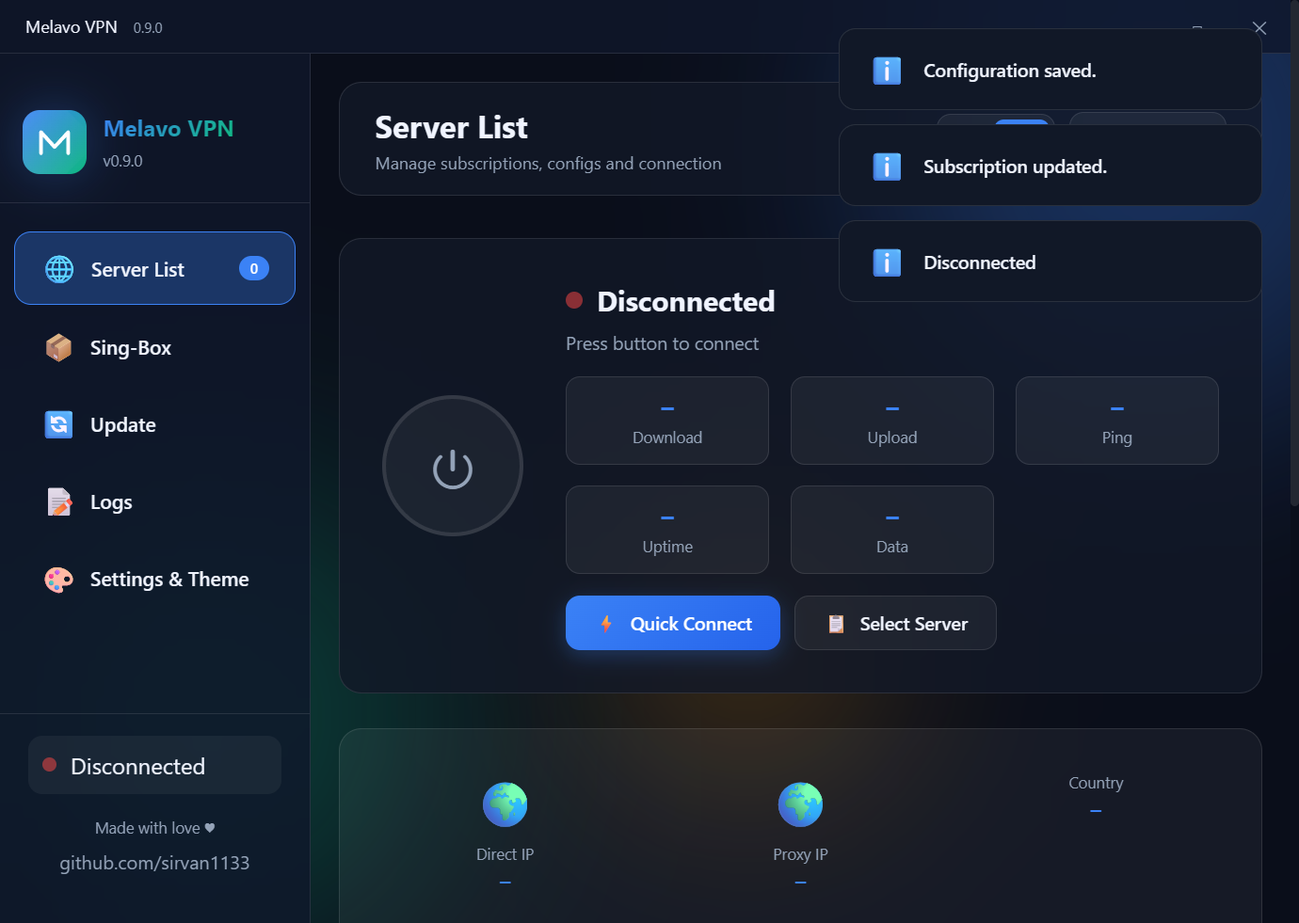
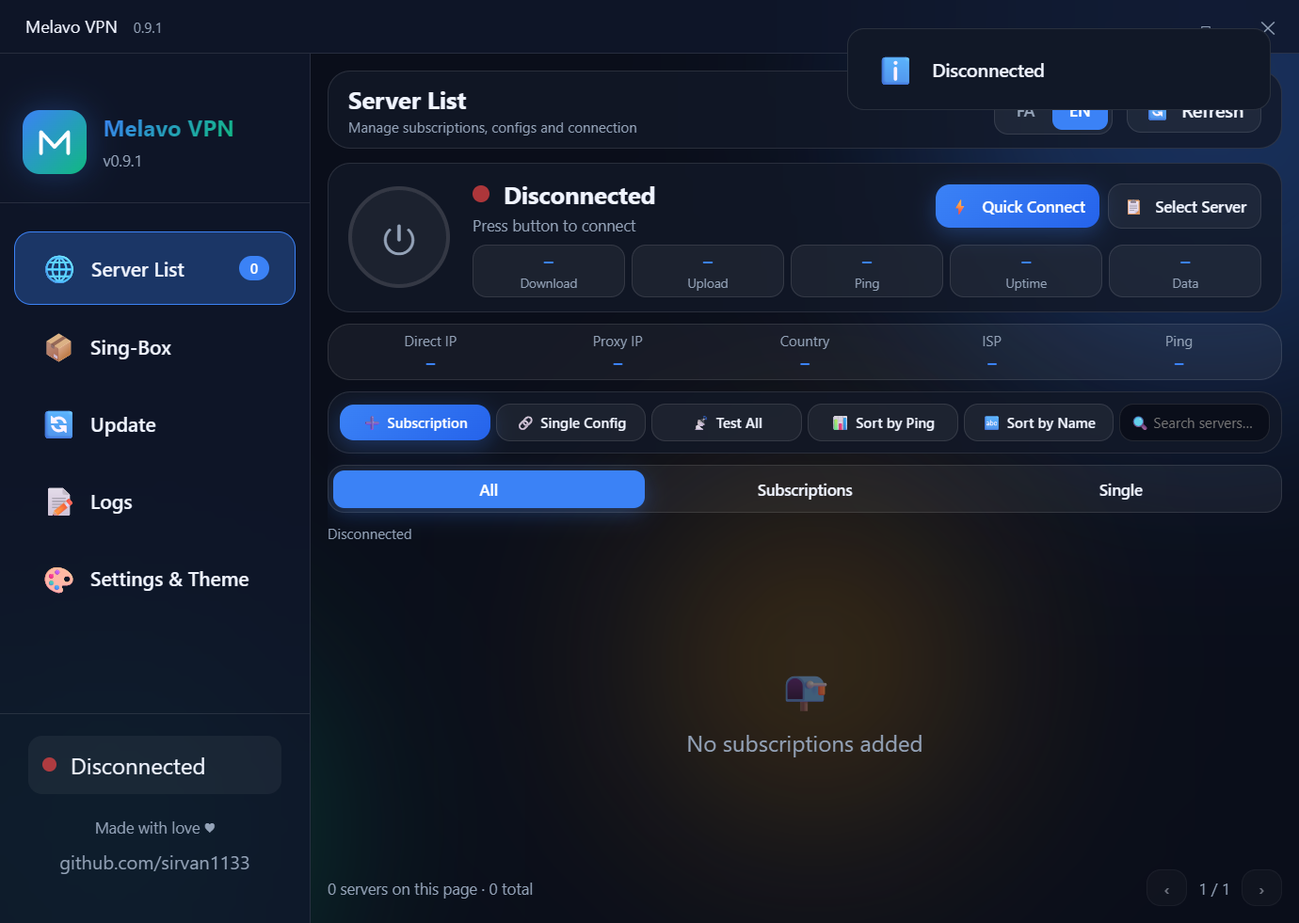
Fit server dashboard to window with adaptive server pagination

diff --git a/Assets/WebShell.js b/Assets/WebShell.js
@@ -11,7 +11,7 @@ const $=id=>document.getElementById(id),t=key=>translations[currentLang][key]||t
 const escapeHTML=value=>String(value??'').replace(/[&<>"']/g,c=>({'&':'&amp;','<':'&lt;','>':'&gt;','"':'&quot;',"'":'&#39;'}[c]));
 function rpc(action,args={}){return new Promise((resolve,reject)=>{if(!window.chrome?.webview){reject(new Error(t('offline')));return;}const id=++requestId;const timer=setTimeout(()=>{pending.delete(id);reject(new Error(t('busy')));},180000);pending.set(id,{resolve,reject,timer});window.chrome.webview.postMessage({id,action,...args});});}
 async function runAction(action,args={}){try{return await rpc(action,args);}catch(e){showToast('⚠',e.message);return null;}}
-function setText(id,value){const el=$(id);if(el&&el.textContent!==String(value??''))el.textContent=value??'';}
+function setText(id,value){const el=$(id);if(el&&el.textContent!==String(value??'')){el.textContent=value??'';el.title=String(value??'');}}
 function captionDrag(event){if(event.button===0&&!event.target.closest('button'))runAction('drag');}
 document.querySelectorAll('.caption-actions button').forEach(button=>{button.addEventListener('pointerdown',e=>e.stopPropagation());button.addEventListener('dblclick',e=>e.stopPropagation());});
 function setLang(lang,btn,persist=true){
@@ -31,7 +31,7 @@ function showPage(page){
  if(!['servers','singbox','update','logs','settings'].includes(page))return;currentPage=page;
  document.querySelectorAll('.page-section').forEach(p=>p.classList.toggle('active',p.id==='page-'+page));
  document.querySelectorAll('.nav-item').forEach((n,i)=>n.classList.toggle('active',['servers','singbox','update','logs','settings'][i]===page));
- $('pageTitle').textContent=t('page_'+page+'_title');$('pageDesc').textContent=t('page_'+page+'_desc');window.scrollTo({top:0,behavior:'instant'});$('contextMenu').classList.remove('show');
+ $('pageTitle').textContent=t('page_'+page+'_title');$('pageDesc').textContent=t('page_'+page+'_desc');window.scrollTo({top:0,behavior:'instant'});if(page==='servers')requestAnimationFrame(renderServerList);$('contextMenu').classList.remove('show');
 }
 function setTheme(theme,el,persist=true){
  const allowed=['dark-blue','dark-purple','dark-emerald','dark-rose','dark-carbon','dark-neon','dark-matrix','light'];if(!allowed.includes(theme))return;
@@ -59,19 +59,42 @@ function renderNodesList(nodes){
  const filtered=visibleNodes(nodes);if(!filtered.length)return `<div class="empty-state" style="padding:20px"><p>${escapeHTML(t('no_results'))}</p></div>`;
  return filtered.map(node=>{const pingClass=node.ping==null?'ping-none':node.ping<80?'ping-good':node.ping<150?'ping-medium':'ping-bad';const pingText=node.failed?t('no_reply'):node.ping==null?'—':node.ping+' ms';return `<div class="node-item ${selectedNodeId===node.id?'selected':''}" data-node-id="${escapeHTML(node.id)}" tabindex="0" role="button" aria-selected="${selectedNodeId===node.id}" onclick="selectNode(this)" onkeydown="nodeKey(event,this)" oncontextmenu="showContextMenu(event,'${escapeHTML(node.id)}')"><span class="node-flag">${escapeHTML(node.flag)}</span><div class="node-info"><div class="node-name">${escapeHTML(node.name)}</div><div class="node-detail"><span>🔹 ${escapeHTML(node.type)}</span><span>🔸 ${escapeHTML(node.proto)}</span></div></div><span class="node-ping ${pingClass}" title="ICMP">${escapeHTML(pingText)}</span></div>`;}).join('');
 }
+let serverPage=0,serverPages=[];
+function changeServerPage(delta){serverPage=Math.max(0,Math.min(serverPages.length-1,serverPage+delta));renderServerList();}
 function renderServerList(){
+ const originalSubs=subscriptions,originalSingles=singleConfigs,total=allNodes().length;
+ const height=Math.max(96,$('serverListContainer').clientHeight-4),header=50,row=42,gap=8;
+ const groups=[];if(currentView!=='single')for(const group of originalSubs)groups.push({source:group,single:false,nodes:visibleNodes(group.nodes)});
+ if(currentView!=='subs'&&originalSingles.length)groups.push({single:true,nodes:visibleNodes(originalSingles)});
+ const pages=[];let entries=[],remaining=height;
+ function finish(){if(entries.length){pages.push(entries);entries=[];remaining=height;}}
+ for(const group of groups){
+  const closed=!group.single&&closedGroups.has(group.source.id);const nodes=closed?[]:group.nodes;
+  if(!nodes.length){const cost=header+gap+(closed?0:30);if(remaining<cost)finish();entries.push({...group,nodes:[]});remaining-=cost;continue;}
+  let index=0;while(index<nodes.length){if(remaining<header+row+gap)finish();const capacity=Math.max(1,Math.floor((remaining-header-gap)/row));const chunk=nodes.slice(index,index+capacity);entries.push({...group,nodes:chunk});remaining-=header+chunk.length*row+gap;index+=chunk.length;if(index<nodes.length)finish();}
+ }
+ finish();serverPages=pages;serverPage=Math.max(0,Math.min(serverPage,pages.length-1));const selected=pages[serverPage]||[];
+ subscriptions=selected.filter(g=>!g.single).map(g=>({...g.source,totalNodes:g.source.nodes.length,nodes:g.nodes}));singleConfigs=selected.filter(g=>g.single).flatMap(g=>g.nodes);
+ try{renderServerPage();}finally{subscriptions=originalSubs;singleConfigs=originalSingles;}
+ setText('totalNodesBadge',total);const shown=selected.reduce((sum,g)=>sum+g.nodes.length,0);setText('serverPageCount',currentLang==='fa'?`${shown} سرور در این صفحه · ${total} سرور در مجموع`:`${shown} servers on this page · ${total} total`);
+ setText('serverPageNumber',`${serverPage+1} / ${Math.max(1,pages.length)}`);$('previousServerPage').disabled=serverPage<=0;$('nextServerPage').disabled=serverPage>=pages.length-1;
+ $('previousServerPage').setAttribute('aria-label',currentLang==='fa'?'صفحه قبلی':'Previous page');$('nextServerPage').setAttribute('aria-label',currentLang==='fa'?'صفحه بعدی':'Next page');
+}
+let serverResizeTimer;new ResizeObserver(()=>{clearTimeout(serverResizeTimer);serverResizeTimer=setTimeout(()=>{if(currentPage==='servers')renderServerList();},50);}).observe($('serverListContainer'));
+function renderServerPage(){
  const container=$('serverListContainer'),scroll=window.scrollY;let html='';
- if(currentView!=='single')for(const sub of subscriptions){const closed=closedGroups.has(sub.id),account=[];if(sub.total)account.push(t('traffic')+': '+sub.used+' / '+sub.total);if(sub.expires)account.push(t('expires')+': '+sub.expires);html+=`<div class="sub-group ${closed?'':'open'}" data-sub-id="${escapeHTML(sub.id)}"><div class="sub-group-header" tabindex="0" role="button" aria-expanded="${!closed}" onclick="toggleSubGroup('${escapeHTML(sub.id)}')" onkeydown="if(event.key==='Enter'||event.key===' '){event.preventDefault();toggleSubGroup('${escapeHTML(sub.id)}')}"><div class="sub-group-icon">🌐</div><div class="sub-group-info"><div class="sub-group-name">${escapeHTML(sub.name)}</div><div class="sub-group-meta" title="${escapeHTML(sub.url)}">${escapeHTML(sub.url)}</div>${account.length?`<div class="group-account">${escapeHTML(account.join(' · '))}</div>`:''}</div><span class="sub-group-nodes">${sub.nodes.length} ${escapeHTML(t('nodes_count'))}</span><div class="sub-group-actions"><button class="icon-btn" data-mutation onclick="event.stopPropagation();refreshSub('${escapeHTML(sub.id)}')" title="${escapeHTML(t('btn_refresh'))}" aria-label="${escapeHTML(t('btn_refresh'))}">🔄</button><button class="icon-btn" data-mutation onclick="event.stopPropagation();editSub('${escapeHTML(sub.id)}')" title="${escapeHTML(t('ctx_edit'))}" aria-label="${escapeHTML(t('ctx_edit'))}">✏</button><button class="icon-btn" data-mutation onclick="event.stopPropagation();deleteSub('${escapeHTML(sub.id)}')" title="${escapeHTML(t('ctx_delete'))}" aria-label="${escapeHTML(t('ctx_delete'))}">🗑</button><span class="sub-group-toggle">▶</span></div></div><div class="sub-group-nodes-list"><div class="node-list-inner">${renderNodesList(sub.nodes)}</div></div></div>`;}
+ if(currentView!=='single')for(const sub of subscriptions){const closed=closedGroups.has(sub.id),account=[];if(sub.total)account.push(t('traffic')+': '+sub.used+' / '+sub.total);if(sub.expires)account.push(t('expires')+': '+sub.expires);html+=`<div class="sub-group ${closed?'':'open'}" data-sub-id="${escapeHTML(sub.id)}"><div class="sub-group-header" tabindex="0" role="button" aria-expanded="${!closed}" onclick="toggleSubGroup('${escapeHTML(sub.id)}')" onkeydown="if(event.key==='Enter'||event.key===' '){event.preventDefault();toggleSubGroup('${escapeHTML(sub.id)}')}"><div class="sub-group-icon">🌐</div><div class="sub-group-info"><div class="sub-group-name">${escapeHTML(sub.name)}</div><div class="sub-group-meta" title="${escapeHTML(sub.url)}">${escapeHTML(sub.url)}</div>${account.length?`<div class="group-account">${escapeHTML(account.join(' · '))}</div>`:''}</div><span class="sub-group-nodes">${sub.totalNodes??sub.nodes.length} ${escapeHTML(t('nodes_count'))}</span><div class="sub-group-actions"><button class="icon-btn" data-mutation onclick="event.stopPropagation();refreshSub('${escapeHTML(sub.id)}')" title="${escapeHTML(t('btn_refresh'))}" aria-label="${escapeHTML(t('btn_refresh'))}">🔄</button><button class="icon-btn" data-mutation onclick="event.stopPropagation();editSub('${escapeHTML(sub.id)}')" title="${escapeHTML(t('ctx_edit'))}" aria-label="${escapeHTML(t('ctx_edit'))}">✏</button><button class="icon-btn" data-mutation onclick="event.stopPropagation();deleteSub('${escapeHTML(sub.id)}')" title="${escapeHTML(t('ctx_delete'))}" aria-label="${escapeHTML(t('ctx_delete'))}">🗑</button><span class="sub-group-toggle">▶</span></div></div><div class="sub-group-nodes-list"><div class="node-list-inner">${renderNodesList(sub.nodes)}</div></div></div>`;}
  if(currentView!=='subs'&&singleConfigs.length)html+=`<div class="sub-group open"><div class="sub-group-header"><div class="sub-group-icon">🔗</div><div class="sub-group-info"><div class="sub-group-name">${escapeHTML(t('tab_single'))}</div><div class="sub-group-meta">${escapeHTML(t('manual_configs'))}</div></div><span class="sub-group-nodes">${singleConfigs.length} ${escapeHTML(t('nodes_count'))}</span></div><div class="sub-group-nodes-list"><div class="node-list-inner">${renderNodesList(singleConfigs)}</div></div></div>`;
  if(!html)html=`<div class="empty-state"><div class="empty-state-icon">${currentView==='single'?'🔗':'📭'}</div><p>${escapeHTML(t(currentView==='single'?'empty_single':'empty_subs'))}</p></div>`;
  container.innerHTML=html;setText('totalNodesBadge',allNodes().length);updateDisabled();if(window.scrollY!==scroll)window.scrollTo(0,scroll);
 }
-function toggleSubGroup(id){const group=Array.from(document.querySelectorAll('.sub-group[data-sub-id]')).find(g=>g.dataset.subId===id);if(!group)return;const open=group.classList.toggle('open');if(open)closedGroups.delete(id);else closedGroups.add(id);group.querySelector('.sub-group-header').setAttribute('aria-expanded',String(open));}
+function toggleSubGroup(id){const group=Array.from(document.querySelectorAll('.sub-group[data-sub-id]')).find(g=>g.dataset.subId===id);if(!group)return;const opening=closedGroups.has(id);if(opening){closedGroups.delete(id);renderServerList();const updated=Array.from(document.querySelectorAll('.sub-group[data-sub-id]')).find(g=>g.dataset.subId===id);if(updated){updated.classList.remove('open');void updated.offsetHeight;requestAnimationFrame(()=>updated.classList.add('open'));}}else{closedGroups.add(id);group.classList.remove('open');group.querySelector('.sub-group-header').setAttribute('aria-expanded','false');setTimeout(renderServerList,320);}}
+
 function selectNode(el){if(hostState?.busy)return;selectedNodeId=el.dataset.nodeId;document.querySelectorAll('.node-item').forEach(n=>{n.classList.toggle('selected',n.dataset.nodeId===selectedNodeId);n.setAttribute('aria-selected',String(n.dataset.nodeId===selectedNodeId));});runAction('select',{nodeId:selectedNodeId});}
 function nodeKey(event,el){if(event.key==='Enter'||event.key===' '){event.preventDefault();selectNode(el);}if(event.key==='ContextMenu'||(event.shiftKey&&event.key==='F10')){event.preventDefault();const r=el.getBoundingClientRect();showContextMenu({preventDefault(){},stopPropagation(){},clientX:r.left+40,clientY:r.top+20},el.dataset.nodeId);}}
-function filterView(view,el){currentView=view;document.querySelectorAll('.tab').forEach((tab,i)=>tab.classList.toggle('active',['all','subs','single'][i]===view));renderServerList();}
-function filterNodes(){renderServerList();}
-function sortNodes(by){sortBy=by;renderServerList();showToast('📊',t('toast_sorted'));}
+function filterView(view,el){serverPage=0;currentView=view;document.querySelectorAll('.tab').forEach((tab,i)=>tab.classList.toggle('active',['all','subs','single'][i]===view));renderServerList();}
+function filterNodes(){serverPage=0;renderServerList();}
+function sortNodes(by){serverPage=0;sortBy=by;renderServerList();showToast('📊',t('toast_sorted'));}
 function showContextMenu(event,nodeId){event.preventDefault();event.stopPropagation();if(!findNode(nodeId))return;selectedNodeId=nodeId;contextTarget=nodeId;document.querySelectorAll('.node-item').forEach(n=>n.classList.toggle('selected',n.dataset.nodeId===nodeId));runAction('select',{nodeId});const menu=$('contextMenu');menu.classList.add('show');menu.style.left=Math.max(8,Math.min(event.clientX,window.innerWidth-menu.offsetWidth-10))+'px';menu.style.top=Math.max(44,Math.min(event.clientY,window.innerHeight-menu.offsetHeight-10))+'px';}
 async function contextAction(action){$('contextMenu').classList.remove('show');if(!contextTarget)return;const node=findNode(contextTarget);if(!node)return;
  if(action==='connect')await runAction('connect',{nodeId:node.id});else if(action==='copy'){const result=await runAction('copy',{nodeId:node.id});if(result)showToast('📋',t('toast_copied'));}else if(action==='share')await showShare(node.id);else if(action==='edit'){const data=await runAction('edit-data',{nodeId:node.id});if(data){editingNodeId=node.id;$('editConfigName').value=data.name;$('editConfigLink').value=data.text;openModal('editConfigModal');}}else if(action==='ping')await runAction('ping',{nodeId:node.id});else if(action==='ip'){if(hostState?.activeId===node.id&&hostState.connected){await runAction('ip');showPage('servers');$('ipPanel').scrollIntoView({behavior:'smooth'});}else showToast('ℹ',t('unsupported_ip'));}else if(action==='delete')confirmAction('delete-node',{nodeId:node.id});

diff --git a/Assets/WebShell.html b/Assets/WebShell.html
@@ -1598,6 +1598,26 @@
 @media(max-width:1050px) and (min-width:769px){.sidebar{width:220px}.main-content{margin-right:220px;padding:58px 20px 20px}[dir=ltr] .main-content{margin-right:0;margin-left:220px}.sidebar-header{padding:20px 16px}.nav-menu{padding:0 10px}.ip-panel{grid-template-columns:repeat(3,minmax(0,1fr))}}
 @media(max-width:768px){.main-content{padding-top:53px}[dir=ltr] .main-content{margin-right:0}.sidebar-header{padding:12px;justify-content:center}.logo{flex:none}.sidebar-footer{padding:10px}.creator{display:none}.nav-item{justify-content:center;padding:12px 6px}.ip-panel{grid-template-columns:repeat(2,minmax(0,1fr))}.sub-group-header{padding:12px;flex-wrap:wrap}.sub-group-info{flex:1;min-width:110px}.sub-group-actions{margin-inline-start:auto}.top-bar{padding:15px}.connection-panel{padding:20px}.bg-animation .orb{filter:blur(60px)}}
 @media(prefers-reduced-motion:reduce){*,*::before,*::after{animation:none!important;transition:none!important;scroll-behavior:auto!important}}
+
+/* Fixed dashboard: long server lists use pages, not a scroll surface. */
+html,body{height:100%;overflow:hidden}.app-container{height:100vh;min-height:0}.main-content{height:100vh;min-height:0;display:flex;flex-direction:column;padding:50px 18px 12px;overflow:hidden}.top-bar{flex:none;padding:10px 16px;margin-bottom:10px;min-height:54px;gap:8px}.top-bar-title h1{font-size:18px}.top-bar-title p{font-size:11px}.top-bar .btn{padding:7px 12px}.page-section.active{flex:1;min-height:0;overflow:auto}.page-section#page-servers.active{display:flex;flex-direction:column;overflow:hidden;gap:8px}
+#page-servers .connection-panel{flex:none;padding:14px 18px;margin:0}#page-servers .connection-content{flex-wrap:nowrap;flex-direction:row;text-align:start;gap:16px}.power-button{width:72px;height:72px}.power-icon{font-size:28px}.connection-info-panel{min-width:0;display:grid;grid-template-columns:minmax(0,1fr) auto;gap:3px 12px}.connection-status-main{font-size:17px;margin:0;grid-column:1}.connection-subtitle{grid-column:1;margin:0;font-size:11px;white-space:nowrap;overflow:hidden;text-overflow:ellipsis}.connection-actions{grid-column:2;grid-row:1 / span 2;margin:0;align-items:center;gap:6px}.connection-actions .btn{padding:8px 10px;font-size:11px}.connection-stats{grid-column:1 / -1;grid-template-columns:repeat(5,minmax(0,1fr));gap:6px;margin-top:6px}.stat-item{padding:6px 4px}.stat-item .stat-value{font-size:13px;white-space:nowrap}.stat-item .stat-label{font-size:10px;margin-top:2px}
+#page-servers .ip-panel{flex:none;margin:0;padding:7px 10px;gap:8px;grid-template-columns:repeat(5,minmax(0,1fr))}.ip-item{padding:0}.ip-item .flag{display:none}.ip-item .label{font-size:10px;margin:0 0 3px}.ip-item .value{font-size:11px;overflow:hidden;text-overflow:ellipsis;white-space:nowrap}
+.server-actions{flex:none;margin:0!important;padding:8px!important}.server-actions>div{display:grid!important;grid-template-columns:repeat(3,minmax(0,1fr));gap:6px!important}.server-actions .btn{justify-content:center;min-width:0;padding:7px 5px;font-size:11px;white-space:nowrap}.server-actions>div>div{margin:0!important;min-width:0}.server-actions input{width:100%!important;padding:7px 10px!important;min-width:0;font-size:11px}
+#page-servers .tabs{flex:none;margin:0;padding:3px;gap:3px}.tab{padding:6px 10px;font-size:11px;min-width:0}.status-bar{margin:0;min-height:16px;flex:none;font-size:10px;overflow:hidden;white-space:nowrap;text-overflow:ellipsis}#serverListContainer{flex:1;min-height:0;overflow:hidden}.server-pager{flex:none;display:flex;align-items:center;justify-content:space-between;gap:10px;height:30px;color:var(--text-secondary);font-size:11px}.server-pager .btn{padding:5px 12px;font-size:11px}.server-pager .pager-controls{display:flex;align-items:center;gap:8px;direction:ltr}
+#serverListContainer .sub-group{margin-bottom:6px}#serverListContainer .sub-group-header{padding:8px 12px;gap:8px;flex-wrap:nowrap}#serverListContainer .sub-group-icon{width:28px;height:28px;font-size:15px;flex:none}#serverListContainer .sub-group-name{font-size:12px;margin-bottom:2px;white-space:nowrap;text-overflow:ellipsis;overflow:hidden}#serverListContainer .sub-group-meta{font-size:10px}#serverListContainer .group-account{display:none}#serverListContainer .sub-group-info{min-width:0}#serverListContainer .sub-group-nodes{font-size:10px;padding:3px 6px;margin:0}#serverListContainer .sub-group-actions{gap:3px}#serverListContainer .icon-btn{width:26px;height:26px;font-size:13px;padding:0}#serverListContainer .node-item{height:42px;padding:5px 12px;padding-inline-end:38px;gap:10px;box-sizing:border-box}#serverListContainer .node-flag{font-size:20px}#serverListContainer .node-name{font-size:12px;white-space:nowrap;overflow:hidden;text-overflow:ellipsis}#serverListContainer .node-detail{font-size:10px;margin-top:1px}#serverListContainer .node-ping{font-size:10px;padding:4px 6px}.empty-state{padding:16px;display:flex;height:100%;flex-direction:column;align-items:center;justify-content:center}.empty-state-icon{font-size:32px;margin-bottom:8px}
+@media(min-width:1300px){.server-actions>div{grid-template-columns:repeat(6,minmax(0,1fr))}}
+@media(max-width:1050px){.main-content{padding:50px 12px 10px}}
+@media(max-width:768px){.main-content{margin-right:70px;padding:48px 10px 8px}[dir=ltr] .main-content{margin-left:70px;margin-right:0}.top-bar{padding:8px 12px;flex-wrap:nowrap}.top-bar-title h1{font-size:16px}.top-bar-title p{max-width:280px;overflow:hidden;text-overflow:ellipsis;white-space:nowrap}.top-bar-actions{flex-wrap:nowrap;gap:6px}.lang-btn{padding:4px 7px}.top-bar .btn{padding:6px 8px;font-size:10px}.connection-actions{gap:4px}.connection-actions .btn{font-size:10px;padding:6px 7px}#page-servers .connection-panel{padding:10px 12px}.power-button{width:60px;height:60px}.connection-info-panel{gap:2px 6px}}
+@media(max-height:600px){#page-servers.active{gap:5px}.main-content{padding-bottom:6px}.top-bar{margin-bottom:6px;min-height:42px;padding-top:6px;padding-bottom:6px}.top-bar-title p{display:none}.connection-status-main{font-size:15px}.connection-stats{margin-top:3px}.stat-item{padding:4px 2px}.stat-item .stat-label{font-size:9px}.stat-item .stat-value{font-size:12px}.server-actions{padding:5px!important}.server-actions .btn{padding:5px 4px;font-size:10px}.server-actions input{padding:5px 7px!important}.server-pager{height:26px}.server-pager .btn{padding:4px 8px}#page-servers .connection-panel{padding:8px 12px}}
+
+@media(max-height:600px){.main-content{padding-top:43px;padding-bottom:4px}#page-servers.page-section.active{gap:3px}.top-bar{margin-bottom:4px;min-height:34px;padding:4px 10px}.lang-toggle{padding:2px}.lang-btn{font-size:10px;padding:3px 6px}.top-bar-title h1{font-size:15px}#page-servers .connection-panel{padding:6px 10px}.connection-subtitle{font-size:10px}.connection-stats{gap:4px;margin-top:2px}.stat-item{padding:3px 2px}.stat-item .stat-value{font-size:11px}.stat-item .stat-label{font-size:9px;margin-top:0}#page-servers .ip-panel{padding:4px 8px}.ip-item .label{font-size:9px;margin-bottom:2px}.ip-item .value{font-size:10px}.server-actions .btn{font-size:10px;padding:4px 3px}.server-actions input{font-size:10px;padding:4px 6px!important}.server-actions>div{gap:4px!important}#page-servers .tabs{padding:2px}.tab{padding:4px 8px;font-size:10px}.status-bar{font-size:9px;min-height:12px}.server-pager{height:24px;font-size:10px}}
+
+@media(min-width:850px){.server-actions>div{grid-template-columns:repeat(6,minmax(0,1fr));gap:4px!important}.server-actions .btn{font-size:10px;padding:6px 3px;gap:4px}.server-actions input{font-size:10px;padding:6px 7px!important}}
+@media(min-height:601px){#page-servers .connection-panel{padding:10px 14px}.connection-stats{margin-top:4px;gap:5px}.stat-item{padding:4px 3px}.stat-item .stat-value{font-size:12px}.stat-item .stat-label{font-size:9px;margin-top:1px}#page-servers .ip-panel{padding:5px 10px}.top-bar{padding:8px 14px}.top-bar-title h1{font-size:17px}.top-bar-title p{font-size:10px;margin-top:2px}}
+#serverListContainer .sub-group .empty-state{height:auto;min-height:30px;padding:8px!important}#serverListContainer .sub-group .empty-state p{font-size:11px}
+
+@media(max-height:600px){.sidebar{padding:12px 0}.sidebar-header{padding:12px 16px;margin-bottom:8px}.nav-menu{overflow:hidden}.nav-item{padding:8px 12px;margin-bottom:3px}.nav-text{font-size:12px}.nav-icon{font-size:18px;width:22px}.sidebar-footer{padding:8px 12px}.connection-mini{padding:7px;gap:6px}.creator{margin-top:8px;font-size:10px}.creator-link{margin-top:4px}.logo-text h2{font-size:14px}.sidebar-header .logo{width:38px;height:38px}@media(max-width:768px){.sidebar-header{padding:12px 8px}.nav-item{padding:8px 4px}.sidebar-footer{padding:8px}}}
     </style>
 </head>
 <body>
@@ -1769,7 +1789,7 @@
                 </div>
 
                 <!-- Action Bar -->
-                <div class="card" style="padding: 15px 20px;">
+                <div class="card server-actions" style="padding: 15px 20px;">
                     <div style="display: flex; gap: 10px; flex-wrap: wrap; align-items: center;">
                         <button class="btn btn-primary" onclick="openModal('addSubModal')">➕ <span data-i18n="btn_add_sub">سابسکریپشن</span></button>
                         <button class="btn btn-secondary" onclick="openModal('addConfigModal')">🔗 <span data-i18n="btn_add_config">کانفیگ تکی</span></button>
@@ -1791,7 +1811,7 @@
 
                 <div class="status-bar" id="hostStatus" role="status"></div>
                 <!-- Server List Container -->
-                <div id="serverListContainer"></div>
+                <div id="serverListContainer"></div><div class="server-pager" id="serverPager"><span id="serverPageCount"></span><div class="pager-controls"><button class="btn btn-secondary" id="previousServerPage" onclick="changeServerPage(-1)">‹</button><span id="serverPageNumber"></span><button class="btn btn-secondary" id="nextServerPage" onclick="changeServerPage(1)">›</button></div></div>
             </div>
 
 <div class="page-section" id="page-singbox"><div class="card"><div class="card-header"><div class="card-title">📦 <span data-i18n="singbox_title"></span></div></div>

diff --git a/Client.WebChecks.cs b/Client.WebChecks.cs
@@ -2,7 +2,7 @@ using System.Text.Json;
 using Microsoft.Web.WebView2.Core;
 namespace MelavoClient;
 sealed partial class Client {
- public static int WebChecks(){
+ public static int WebChecks(bool layoutOnly=false){
   var folder=Path.Combine(Path.GetTempPath(),"Melavo-WebChecks-"+Guid.NewGuid().ToString("N"));
   Directory.CreateDirectory(folder);using var client=new Client(true,true){ShowInTaskbar=false,Opacity=0,webReviewDirectory=folder};
   var report=new List<string>();client.Show();var task=Run();while(!task.IsCompleted){Application.DoEvents();Thread.Sleep(10);}try{task.GetAwaiter().GetResult();File.WriteAllLines(Path.Combine(AppContext.BaseDirectory,"web-checks.txt"),report);return 0;}catch(Exception e){report.Add("FAIL: "+e);File.WriteAllLines(Path.Combine(AppContext.BaseDirectory,"web-checks.txt"),report);return 1;}finally{client.webOperation=false;client.Close();}
@@ -10,14 +10,24 @@ sealed partial class Client {
    async Task Until(Func<bool> condition,int timeout=15000){var clock=System.Diagnostics.Stopwatch.StartNew();while(!condition()){if(clock.ElapsedMilliseconds>timeout)throw new Exception("Web UI timeout. "+client.status.Text);await Task.Delay(30);}}
    try{await Until(()=>client.webReady,25000);}catch{if(client.webShell?.CoreWebView2!=null){var diagnostic=client.webShell.CoreWebView2.ExecuteScriptAsync("JSON.stringify({errors:window.__melavoErrors,body:document.body?.innerText?.slice(-1200),ready:typeof ready})");while(!diagnostic.IsCompleted){Application.DoEvents();Thread.Sleep(10);}report.Add("Frontend: "+diagnostic.GetAwaiter().GetResult());}throw;}var core=client.webShell!.CoreWebView2;
    async Task<string> Script(string code)=>await core.ExecuteScriptAsync(code);
-   async Task Assert(string code,string name){var value=await Script(code);if(value!="true")throw new Exception(name+": "+value);report.Add("PASS: "+name);}
+   async Task Assert(string code,string name){var value=await Script(code);if(value!="true"){report.Add(await Script("JSON.stringify({viewport:[innerWidth,innerHeight],body:[document.documentElement.scrollWidth,document.documentElement.scrollHeight],parts:Array.from(document.querySelectorAll('.top-bar,#page-servers>*')).map(e=>({id:e.id,cls:e.className,height:e.clientHeight,scroll:e.scrollHeight,top:e.getBoundingClientRect().top,bottom:e.getBoundingClientRect().bottom}))})"));throw new Exception(name+": "+value);}report.Add("PASS: "+name);}
    async Task Capture(string name){await Task.Delay(550);using var output=File.Create(Path.Combine(AppContext.BaseDirectory,name+".png"));await core.CapturePreviewAsync(CoreWebView2CapturePreviewImageFormat.Png,output);}
    async Task<object?> Command(object message){using var doc=JsonDocument.Parse(JsonSerializer.Serialize(message));return await client.HandleWebCommand(doc.RootElement);}
+   if(layoutOnly){
+    var fixture=new SubscriptionGroup{Name="Pagination review",Url="https://example.invalid/review"};for(int i=0;i<100;i++){var item=Parse("vless://11111111-1111-1111-1111-111111111111@127.0.0.1:443?security=none&type=tcp#Offline")[0];item["remarks"]=$"Server {i+1:D3}";fixture.Profiles.Add(item);}client.CommitGroups(new(){fixture},fixture.Id);
+    foreach(var size in new[]{new Size(1380,980),new Size(1240,780),new Size(1000,700)})foreach(var lang in new[]{"en","fa"}){
+     client.Size=size;client.preferences.Language=lang;client.ApplyLanguage();client.PushWebState();await Script("setLang("+JsonSerializer.Serialize(lang)+",null,false);showPage('servers');filterView('all')");await Task.Delay(180);await Capture($"review-layout-{size.Width}-{lang}");
+     await Assert("document.documentElement.scrollHeight<=innerHeight+1 && document.querySelector('#serverListContainer').scrollHeight<=document.querySelector('#serverListContainer').clientHeight+1","Dashboard and server list fit without scroll: "+size+" / "+lang);
+     var count=int.Parse(await Script("serverPages.length"));var ids=new HashSet<string>();for(int page=0;page<count;page++){await Script("serverPage="+page+";renderServerList()");var shown=JsonSerializer.Deserialize<string[]>(await Script("Array.from(document.querySelectorAll('.node-item')).map(e=>e.dataset.nodeId)"))!;foreach(var id in shown)ids.Add(id);await Assert("Array.from(document.querySelectorAll('.node-item')).every(e=>e.getBoundingClientRect().bottom<=document.querySelector('#serverListContainer').getBoundingClientRect().bottom+1)","Visible rows fit page "+page);}
+     if(ids.Count!=100)throw new Exception("Pagination lost profiles: "+ids.Count);report.Add("PASS: all 100 profiles reachable through pages");
+    }
+    client.Size=new(1380,980);client.CommitGroups(new(),null);client.preferences.Language="en";client.ApplyLanguage();client.status.Text="Disconnected";client.PushWebState();await Script("setLang('en',null,false);setTheme('dark-blue',null,false);showPage('servers')");await Capture("review-web-customer");return;
+   }
    client.CommitGroups(new(),null);client.PushWebState();await Task.Delay(180);
    await Assert("allNodes().length===0 && document.querySelectorAll('.node-item').length===0","Customer starts without bundled subscriptions or configurations");
    await Capture("review-web-customer");
    client.LoadPreview();client.PushWebState();await Task.Delay(200);
-   await Assert("document.querySelectorAll('.sub-group[data-sub-id]').length===1 && document.querySelectorAll('.node-item').length===3","Actual host profiles populate the accordion");
+   await Assert("document.querySelectorAll('.sub-group[data-sub-id]').length===1 && document.querySelectorAll('.node-item').length>0 && allNodes().length===3","Actual host profiles populate the accordion");
    var groupId=client.subscriptions.First(IsSubscription).Id;
    await Script("toggleSubGroup("+JsonSerializer.Serialize(groupId)+")");await Task.Delay(380);
    await Assert("!document.querySelector('.sub-group').classList.contains('open') && getComputedStyle(document.querySelector('.sub-group-nodes-list')).gridTemplateRows==='0px'","Accordion collapses to zero height with its CSS transition");
@@ -53,12 +63,12 @@ sealed partial class Client {
    await Script("document.querySelector('#contextMenu').classList.remove('show')");
    await Command(new{action="add-config",text="vless://11111111-1111-1111-1111-111111111111@127.0.0.1:443?security=none&type=tcp#Offline"});
    var single=client.SingleConfigGroup!;var singleId=WebId(single,0);await Command(new{action="select",nodeId=singleId});await Command(new{action="edit-node",nodeId=singleId,name="<img src=x onerror=alert(1)>",text=ShareSnapshot(single.Profiles[0])});client.PushWebState();await Task.Delay(180);
-   await Assert("!document.querySelector('#serverListContainer img') && document.querySelector('#serverListContainer').textContent.includes('<img src=x onerror=alert(1)>')","Profile names are rendered as text, never executable markup");
+   await Script("filterView('single')");await Assert("!document.querySelector('#serverListContainer img') && document.querySelector('#serverListContainer').textContent.includes('<img src=x onerror=alert(1)>')","Profile names are rendered as text, never executable markup");
    await Command(new{action="delete-node",nodeId=singleId});if(client.SingleConfigGroup!=null)throw new Exception("Single config delete failed.");report.Add("PASS: import, edit and delete use native configuration storage logic");
    await Command(new{action="edit-sub",groupId=first.Id,name="Design review",url=first.Url,autoUpdate=false,interval=24});var edited=client.subscriptions.First(g=>g.Id==first.Id);if(edited.AutoUpdate||edited.AutoUpdateHours!=24)throw new Exception("Subscription edit preferences not saved.");report.Add("PASS: edit subscription stores update toggle and interval");
    await Command(new{action="preferences",theme="dark-purple",appearance=new Dictionary<string,string>{{"accent","#8b5cf6"},{"bg","#0f0517"},{"blur","30"},{"opacity","70"},{"radius","20"},{"border","1"}},tray=false,autoUpdate=false,tun=false});
    var roundtrip=JsonSerializer.Deserialize<UiPreferences>(JsonSerializer.Serialize(client.preferences))!;if(roundtrip.WebTheme!="dark-purple"||roundtrip.WebAppearance["blur"]!="30"||roundtrip.TunMode)throw new Exception("Preferences roundtrip failed.");report.Add("PASS: language, theme, custom material and real switches persist in portable preferences");
-   client.Size=new(1000,700);await Task.Delay(180);await Assert("document.documentElement.scrollWidth<=innerWidth+1","Responsive layout fits minimum viewport");await Capture("review-web-minimum");
+   client.Size=new(1000,700);await Script("filterView('all')");await Task.Delay(550);await Assert("document.documentElement.scrollWidth<=innerWidth+1","Responsive layout fits minimum viewport");await Assert("document.documentElement.scrollHeight<=innerHeight+1 && document.querySelector('#serverListContainer').scrollHeight<=document.querySelector('#serverListContainer').clientHeight+1","Dashboard and server list have no vertical overflow");await Capture("review-web-minimum");
    await core.CallDevToolsProtocolMethodAsync("Emulation.setEmulatedMedia","{\"features\":[{\"name\":\"prefers-reduced-motion\",\"value\":\"reduce\"}]}");await Assert("getComputedStyle(document.querySelector('.orb')).animationName==='none'","Reduced-motion preference disables continuous animations");
    client.Size=new(1380,980);client.CommitGroups(new(),null);client.status.Text="Disconnected";client.PushWebState();await Script("setTheme('dark-blue',null,false);setLang('en',null,false);showPage('servers')");await core.CallDevToolsProtocolMethodAsync("Emulation.setEmulatedMedia","{\"features\":[]}");await Capture("review-web-customer");
   }

diff --git a/UpdateService.cs b/UpdateService.cs
@@ -7,10 +7,10 @@ namespace MelavoClient;
 sealed record CoreRelease(string Version,string Url,string Sha256);
 sealed record PackagePlan(string Version,string Stage,string[] Files,Dictionary<string,string> Hashes);
 static partial class UpdateService {
- public const string AppVersion="0.9.0";
+ public const string AppVersion="0.9.1";
  public static string TempRoot=>Path.Combine(SubscriptionStore.DirectoryPath,"updates");
  public static string NewStage(){var path=Path.Combine(TempRoot,Guid.NewGuid().ToString("N"));Directory.CreateDirectory(path);return path;}
- static HttpClient Http(){var http=new HttpClient{Timeout=TimeSpan.FromMinutes(3)};http.DefaultRequestHeaders.UserAgent.ParseAdd("MelavoClient/0.9.0");return http;}
+ static HttpClient Http(){var http=new HttpClient{Timeout=TimeSpan.FromMinutes(3)};http.DefaultRequestHeaders.UserAgent.ParseAdd("MelavoClient/0.9.1");return http;}
  public static async Task<CoreRelease> LatestCore(){using var http=Http();var json=JsonNode.Parse(await http.GetStringAsync("https://api.github.com/repos/XTLS/Xray-core/releases/latest"))!;var asset=json["assets"]!.AsArray().FirstOrDefault(a=>a?["name"]?.ToString()=="Xray-windows-64.zip")??throw new Exception("فایل ویندوز در انتشار رسمی موجود نیست.");var url=asset["browser_download_url"]!.ToString();var digest=asset["digest"]?.ToString()??"";if(!url.StartsWith("https://github.com/XTLS/Xray-core/releases/download/",StringComparison.OrdinalIgnoreCase)||!digest.StartsWith("sha256:")||digest.Length!=71)throw new Exception("اطلاعات تأیید دانلود رسمی کامل نیست.");return new(json["tag_name"]!.ToString().TrimStart('v'),url,digest[7..]);}
  public static async Task<string> DownloadCore(CoreRelease release,IProgress<int> progress){var stage=NewStage();try{var archive=Path.Combine(stage,"download.zip");using var http=Http();using var response=await http.GetAsync(release.Url,HttpCompletionOption.ResponseHeadersRead);response.EnsureSuccessStatusCode();using(var input=await response.Content.ReadAsStreamAsync())using(var output=File.Create(archive)){var buffer=new byte[65536];long total=0;int read;using var timeout=new CancellationTokenSource(TimeSpan.FromMinutes(3));while((read=await input.ReadAsync(buffer,timeout.Token))>0){total+=read;if(total>150_000_000)throw new Exception("اندازهٔ دانلود غیرمنتظره است.");await output.WriteAsync(buffer.AsMemory(0,read),timeout.Token);if(response.Content.Headers.ContentLength is long length&&length>0)progress.Report((int)(total*100/length));}}
   using var lockedArchive=new FileStream(archive,FileMode.Open,FileAccess.Read,FileShare.Read);if(!Convert.ToHexString(SHA256.HashData(lockedArchive)).Equals(release.Sha256,StringComparison.OrdinalIgnoreCase))throw new Exception("SHA256 دانلود با انتشار رسمی مطابقت ندارد.");var core=Path.Combine(stage,"core");Directory.CreateDirectory(core);lockedArchive.Position=0;using var zip=new ZipArchive(lockedArchive,ZipArchiveMode.Read,true);var verifiedHashes=new Dictionary<string,string>(StringComparer.OrdinalIgnoreCase);var allowed=new HashSet<string>(new[]{"xray.exe","libcronet.dll","geoip.dat","geosite.dat","LICENSE"},StringComparer.OrdinalIgnoreCase);foreach(var entry in zip.Entries){var relative=Relative(entry.FullName);if(entry.Name.Length==0)continue;if(relative.Contains('/')||!allowed.Contains(relative))continue;if(entry.Length>80_000_000)throw new Exception("فایل استخراجشده بیش از حد بزرگ است.");var name=relative.Equals("LICENSE",StringComparison.OrdinalIgnoreCase)?"LICENSE-Xray.txt":relative;if(Path.GetExtension(name) is ".exe" or ".dll"){using var trustedEntry=entry.Open();verifiedHashes[name]=Convert.ToHexString(SHA256.HashData(trustedEntry)).ToLowerInvariant();}entry.ExtractToFile(Path.Combine(core,name),true);}ValidateExe(Path.Combine(core,"xray.exe"));CoreSecurity.ApproveCandidate(core,verifiedHashes);return core;}catch{CleanupStage(stage);throw;}
@@ -69,7 +69,7 @@ static partial class UpdateService {
    if($canClean){foreach($relative in $files){$source=[IO.Path]::GetFullPath((Join-Path $stageRoot $relative));if($source.StartsWith($stageRoot.TrimEnd('\')+'\',[StringComparison]::OrdinalIgnoreCase)){Remove-Item -LiteralPath $source -Force -ErrorAction SilentlyContinue}};if([IO.Path]::GetFullPath($backupRoot).StartsWith($stageRoot.TrimEnd('\')+'\',[StringComparison]::OrdinalIgnoreCase)){Remove-Item -LiteralPath $backupRoot -Recurse -Force -ErrorAction SilentlyContinue}}
    $workerLock.Dispose()
  }
- 
+
  """;return restart?script+"\nStart-Process -FilePath (Join-Path $targetRoot 'MelavoClient.exe') -WindowStyle Normal\n":script;
  }
  public static void StartPackageInstall(PackagePlan plan,string destination,bool restart=true){

diff --git a/Client.Ui.cs b/Client.Ui.cs
@@ -22,12 +22,12 @@ sealed partial class Client {
  Panel? pageHost;string currentPage="Home";ConnectionState visualState;DateTime? connectedAt;long lastRx,lastTx,totalRx,totalTx;bool sampled,disconnecting;string? activeProfileKey;float animation;DateTime sampleAt;DateTime pageTransition;
  void BuildShell(){
   using(var iconStream=typeof(Client).Assembly.GetManifestResourceStream("MelavoClient.Assets.Melavo.ico")){if(iconStream!=null){Icon=new Icon(iconStream);tray.Icon=Icon;}}
-  Design.Glass=preferences.VisualStyle=="glass";Design.Dark=preferences.Dark;Text="Melavo VPN · 0.9.0"+(SubscriptionStore.Edition=="customer"?" · Customer":"");Font=Design.Font();BackColor=Design.Canvas;ForeColor=Design.Text;RightToLeft=RightToLeft.Yes;Size=new(1380,920);FormBorderStyle=FormBorderStyle.None;MaximizeBox=true;MinimizeBox=true;StartPosition=FormStartPosition.CenterScreen;
+  Design.Glass=preferences.VisualStyle=="glass";Design.Dark=preferences.Dark;Text="Melavo VPN · 0.9.1"+(SubscriptionStore.Edition=="customer"?" · Customer":"");Font=Design.Font();BackColor=Design.Canvas;ForeColor=Design.Text;RightToLeft=RightToLeft.Yes;Size=new(1380,920);FormBorderStyle=FormBorderStyle.None;MaximizeBox=true;MinimizeBox=true;StartPosition=FormStartPosition.CenterScreen;
   var shell=new BufferedTable{Dock=DockStyle.Fill,ColumnCount=2,RowCount=1,Padding=new(16,16,16,16),RightToLeft=RightToLeft.No};shell.ColumnStyles.Add(new(SizeType.Percent,100));shell.ColumnStyles.Add(new(SizeType.Absolute,212));Controls.Add(shell);Padding=new(0,64,0,0);titleBar=new WindowTitleBar(this){Dock=DockStyle.None,Bounds=new Rectangle(16,12,ClientSize.Width-32,44),Anchor=AnchorStyles.Top|AnchorStyles.Left|AnchorStyles.Right};Controls.Add(titleBar);titleBar.BringToFront();
   var sidebar=new Card{RightToLeft=RightToLeft.Yes,Dock=DockStyle.Fill,Padding=new(18,22,18,18),BackColor=Design.Surface};shell.Controls.Add(sidebar,1,0);
   var nav=new BufferedFlow{Dock=DockStyle.Top,AutoSize=true,FlowDirection=FlowDirection.TopDown,WrapContents=false};nav.Controls.Add(new BrandLockup{Margin=new(0,0,0,20)});
   foreach(var item in new[]{("Home","◉  خانه"),("Settings","⚙  تنظیمات"),("About","ⓘ  درباره")}){var button=new ModernButton{Text=item.Item2[3..],IconGlyph=item.Item1 switch{"Home"=>"\uE80F","Servers"=>"\uE774","Subscription"=>"\uE8A5","Statistics"=>"\uE9D9","Settings"=>"\uE713",_=>"\uE946"},Width=176,Height=44,Margin=new(0,8,0,0),AccessibleName=item.Item1,Kind=ButtonKind.Ghost,RightToLeft=RightToLeft.Yes};var key=item.Item1;button.Click+=(_,_)=>Navigate(key);navigation[key]=button;nav.Controls.Add(button);}sidebar.Controls.Add(nav);
-  var foot=Design.Label("VERSION 0.9.0\nXray + sing-box",7,true);foot.Dock=DockStyle.Fill;foot.AutoSize=false;foot.TextAlign=ContentAlignment.MiddleCenter;foot.Margin=Padding.Empty;
+  var foot=Design.Label("VERSION 0.9.1\nXray + sing-box",7,true);foot.Dock=DockStyle.Fill;foot.AutoSize=false;foot.TextAlign=ContentAlignment.MiddleCenter;foot.Margin=Padding.Empty;
   var brandingFooter=new BufferedTable{Dock=DockStyle.Bottom,Height=100,ColumnCount=1,RowCount=3,Margin=Padding.Empty};foreach(var height in new[]{46,28,26})brandingFooter.RowStyles.Add(new(SizeType.Absolute,height));
   creatorCredit.Dock=DockStyle.Fill;creatorCredit.AutoSize=false;creatorCredit.Margin=Padding.Empty;creatorCredit.TextAlign=ContentAlignment.MiddleCenter;
   creatorLink.ForeColorChanged+=(_,_)=>{creatorLink.LinkColor=Design.Muted;creatorLink.ActiveLinkColor=Design.Accent;creatorLink.VisitedLinkColor=Design.Muted;creatorLink.RightToLeft=RightToLeft.No;};

diff --git a/Client.Updates.cs b/Client.Updates.cs
@@ -3,7 +3,7 @@ namespace MelavoClient;
 sealed partial class Client {
  readonly ModernButton updateCore=new(){Text="آپدیت Xray",Width=170},updateApplication=new(){Text="آپدیت برنامه از ZIP",Width=220};
  readonly Label updateStatus=Design.Label("Xray از GitHub رسمی؛ برنامه از فایل نسخهٔ جدید",10,true);
- readonly Label installedInfo=Design.Label("Melavo 0.9.0\nXray / sing-box\nWindows 10 / 11 · x64\nEncrypted storage · Windows DPAPI",12);
+ readonly Label installedInfo=Design.Label("Melavo 0.9.1\nXray / sing-box\nWindows 10 / 11 · x64\nEncrypted storage · Windows DPAPI",12);
  async Task LoadInstalledInfo(){if(preview)return;try{var x=await Task.Run(()=>UpdateService.CoreVersion(Core("xray.exe")));var s=await Task.Run(()=>UpdateService.CoreVersion(Core("sing-box.exe")));if(!IsDisposed)installedInfo.Text="Melavo "+UpdateService.AppVersion+"\n"+string.Join(" ",x.Split(' ',StringSplitOptions.RemoveEmptyEntries).Take(2))+"\n"+s+"\nWindows 10 / 11 · x64";}catch{}}
  void BuildUpdateCard(Panel stack){checkAppUpdate.Text=L("Check for updates","بررسی بهروزرسانی");updateStatus.Text=L("Automatic updates from GitHub; local ZIP updates are also supported.","دریافت خودکار نسخهٔ جدید از گیتهاب؛ نصب از ZIP هم امکانپذیر است.");var card=AddCard(stack,210);var column=new FlowLayoutPanel{Dock=DockStyle.Fill,FlowDirection=FlowDirection.TopDown,WrapContents=false};column.Controls.Add(Design.Label("بهروزرسانی",13));var buttons=new FlowLayoutPanel{Height=45,Width=760};buttons.Controls.AddRange(new Control[]{checkAppUpdate,updateCore,updateApplication});column.Controls.Add(buttons);updateStatus.MaximumSize=new(700,0);column.Controls.Add(updateStatus);card.Controls.Add(column);updateCore.Click+=async(_,_)=>await UpdateXray();updateApplication.Click+=async(_,_)=>await UpdateProgram();}
  bool CanUpdate(){if(preview){updateStatus.Text=L("Updates are unavailable in offline preview.","بهروزرسانی در پیشنمایش آفلاین انجام نمیشود.");return false;}if(busy||updating||pingTesting||xray!=null||downloadingApp){updateStatus.Text=L("Disconnect before updating.","برای بهروزرسانی، اتصال را قطع کنید.");return false;}return true;}

diff --git a/Program.cs b/Program.cs
@@ -12,7 +12,7 @@ static class Program
         // see https://aka.ms/applicationconfiguration.
         ApplicationConfiguration.Initialize();
         if(args.Any(a=>a.EndsWith("checks",StringComparison.Ordinal)))Application.SetUnhandledExceptionMode(UnhandledExceptionMode.ThrowException);
-        using var mutex=new Mutex(true,args.Any(a=>a is "--web-checks" or "--preview" or "--ui-checks" or "--validate" or "--network-check" or "--update-checks" or "--hardening-checks" or "--icmp-checks" or "--latency-checks" or "--render-checks" or "--profile-checks" or "--management-checks")?"Local\\MelavoReview-"+Guid.NewGuid():"Local\\"+SubscriptionStore.ProfileName,out var unique);
+        using var mutex=new Mutex(true,args.Any(a=>a is "--layout-checks" or "--web-checks" or "--preview" or "--ui-checks" or "--validate" or "--network-check" or "--update-checks" or "--hardening-checks" or "--icmp-checks" or "--latency-checks" or "--render-checks" or "--profile-checks" or "--management-checks")?"Local\\MelavoReview-"+Guid.NewGuid():"Local\\"+SubscriptionStore.ProfileName,out var unique);
         if(!unique){MessageBox.Show("برنامه از قبل باز است.");return;}
         if(args.Length==2 && args[0]=="--management-checks"){Environment.Exit(Client.ManagementChecks(args[1]));return;}
         if(args.Length>1 && args[0]=="--subscription-checks"){Environment.Exit(Client.SubscriptionChecks(args.Skip(1).ToArray()).GetAwaiter().GetResult());return;}
@@ -25,7 +25,8 @@ static class Program
         if(args.Contains("--render-checks")){Environment.Exit(Client.RenderChecks());return;}
         if(args.Contains("--ui-checks")){Environment.Exit(Client.UiChecks());return;}
         if(args.Contains("--update-checks")){Environment.Exit(UpdateChecks.Run());return;}
+        if(args.Contains("--layout-checks")){Environment.Exit(Client.WebChecks(true));return;}
         if(args.Contains("--web-checks")){Environment.Exit(Client.WebChecks());return;}
         Application.Run(new Client(args.Contains("--preview"),true));
-    }    
+    }
 }

diff --git a/README.md b/README.md
@@ -4,7 +4,7 @@ A modern Windows VPN client with a clean interface and support for Xray and sing
 
 Requires [Microsoft Edge WebView2 Runtime](https://developer.microsoft.com/microsoft-edge/webview2/).
 
-[Download for Windows](https://github.com/sirvan1133/MelavoClient/releases/download/v0.9.0/Melavo-VPN-0.9.0-Windows-x64.zip)
+[Download for Windows](https://github.com/sirvan1133/MelavoClient/releases/download/v0.9.1/Melavo-VPN-0.9.1-Windows-x64.zip)
 
 ## فارسی
 
